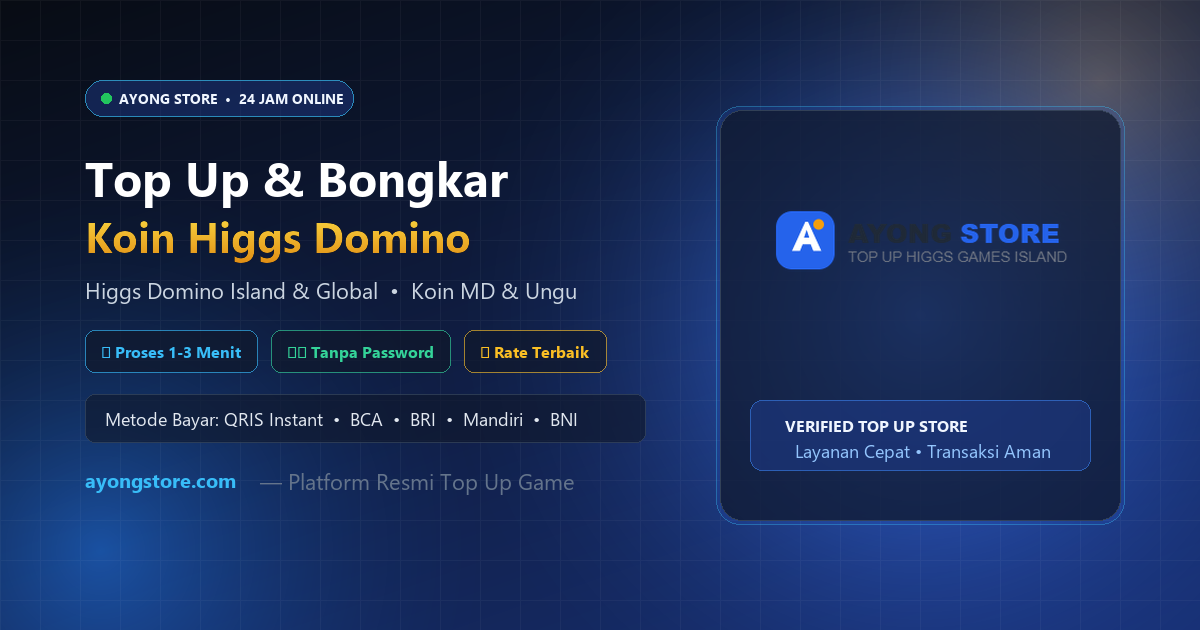
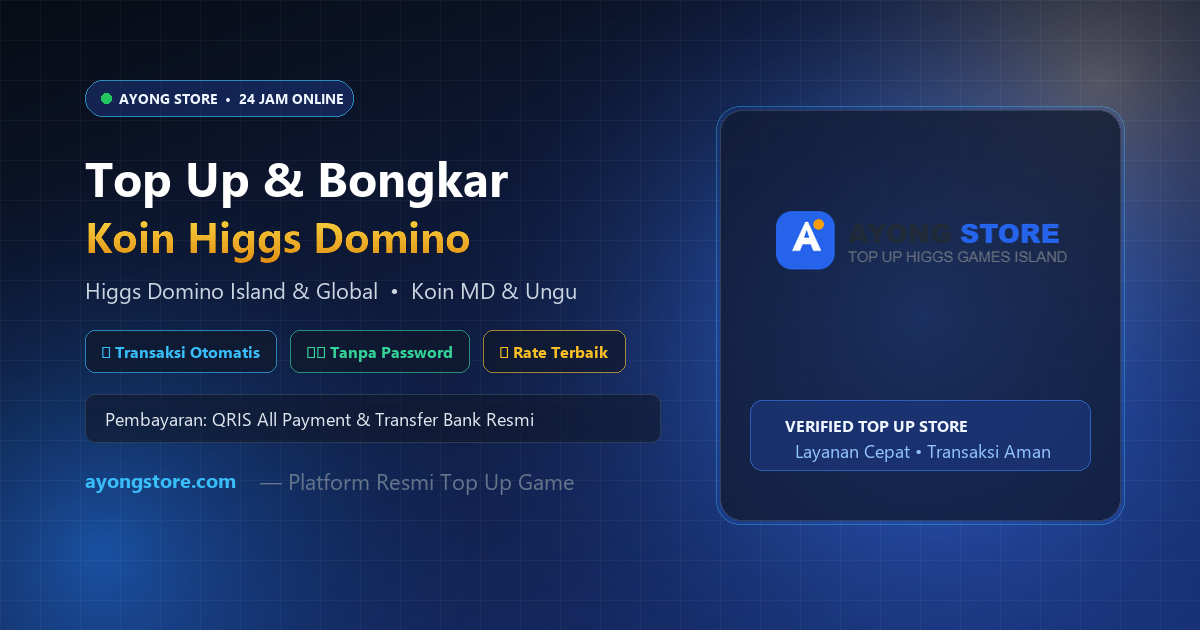
style(og-image): update pill to Transaksi Otomatis and payment bar to QRIS All Payment & Transfer Bank Resmi

Changed region(s): [[0.0925, 0.6333, 0.4933, 0.6937], [0.0925, 0.5127, 0.5242, 0.6032], [0.5242, 0.6333, 0.555, 0.7238]]

diff --git a/scripts/generate_og_image.py b/scripts/generate_og_image.py
@@ -146,7 +146,7 @@ draw.text(
 # --- 6. Feature Pill Cards ---
 pill_y = sub_y + 55
 pills = [
-    {"label": "⚡ Proses 1-3 Menit", "border": (56, 189, 248, 160), "bg": (15, 23, 42, 180), "txt": (56, 189, 248, 255)},
+    {"label": "⚡ Transaksi Otomatis", "border": (56, 189, 248, 160), "bg": (15, 23, 42, 180), "txt": (56, 189, 248, 255)},
     {"label": "🛡 Tanpa Password", "border": (52, 211, 153, 160), "bg": (15, 23, 42, 180), "txt": (52, 211, 153, 255)},
     {"label": "💎 Rate Terbaik", "border": (251, 191, 36, 160), "bg": (15, 23, 42, 180), "txt": (251, 191, 36, 255)},
 ]
@@ -178,7 +178,7 @@ pay_layer = Image.new('RGBA', (WIDTH, HEIGHT), (0,0,0,0))
 p_draw = ImageDraw.Draw(pay_layer)
 
 p_draw.rounded_rectangle(
-    [(LEFT_X, pay_y), (LEFT_X + 560, pay_y + 48)],
+    [(LEFT_X, pay_y), (LEFT_X + 575, pay_y + 48)],
     radius=10,
     fill=(15, 23, 42, 160),
     outline=(51, 65, 85, 200),
@@ -189,7 +189,7 @@ draw = ImageDraw.Draw(im)
 
 draw.text(
     (LEFT_X + 20, pay_y + 12),
-    "Metode Bayar: QRIS Instant  •  BCA  •  BRI  •  Mandiri  •  BNI",
+    "Pembayaran: QRIS All Payment & Transfer Bank Resmi",
     font=font_payment,
     fill=(226, 232, 240, 255)
 )
